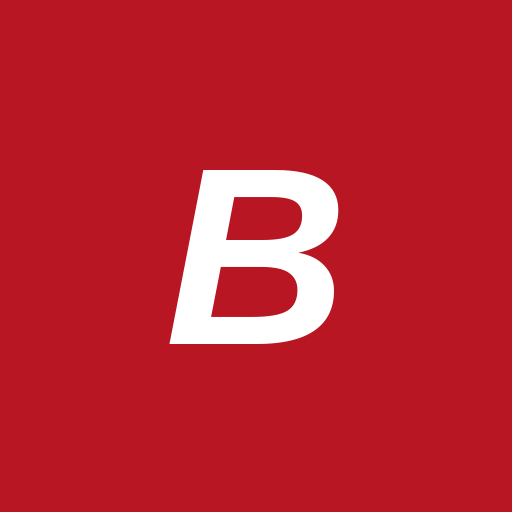
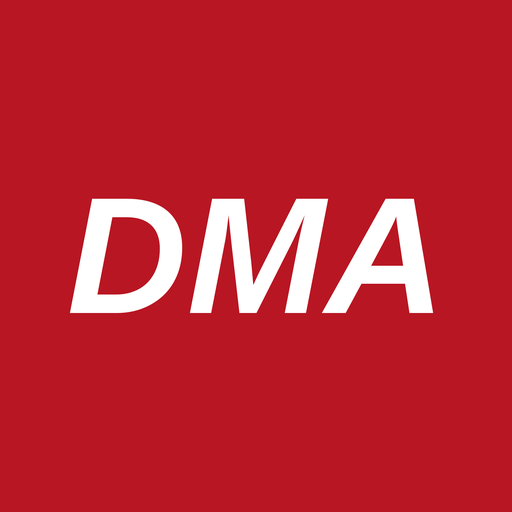
Panel: icono DMA (grupo) en lugar de la B, en pestana, pantalla de inicio y app instalada; cache v2 para que se actualice
Claude-Session: https://claude.ai/code/session_011LYsWAhbE7D1p4ByhmTELK

Changed region(s): [[0.125, 0.3125, 0.8438, 0.6875]]

diff --git a/sw.js b/sw.js
@@ -1,5 +1,5 @@
 // Panel La Bomba: solo guarda la cascara de la app para abrir rapido. Los datos (Supabase) nunca se guardan.
-const V='panel-v1';
+const V='panel-v2';
 const CASCARA=['./','index.html','manifest.webmanifest','icon-192.png'];
 self.addEventListener('install',e=>{e.waitUntil(caches.open(V).then(c=>c.addAll(CASCARA)).then(()=>self.skipWaiting()));});
 self.addEventListener('activate',e=>{e.waitUntil(caches.keys().then(k=>Promise.all(k.filter(x=>x!==V).map(x=>caches.delete(x)))).then(()=>self.clients.claim()));});
